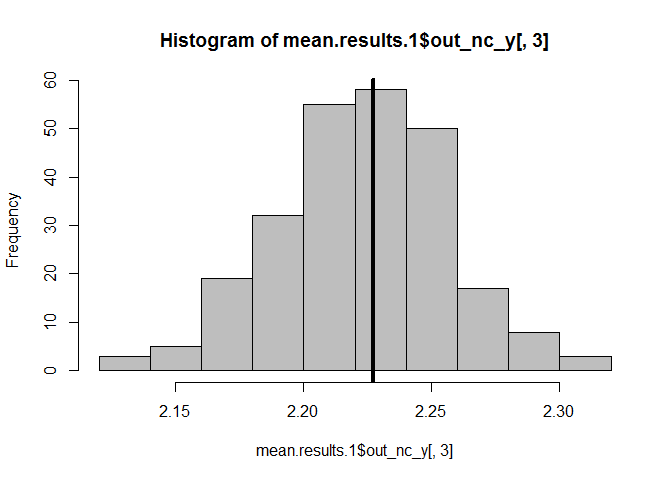
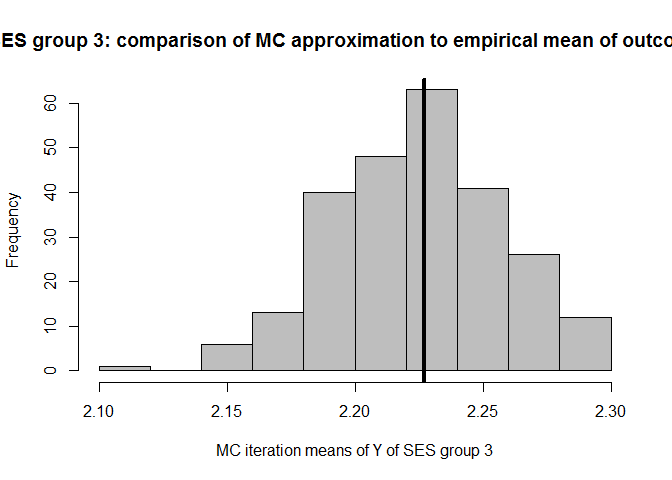
Update figures and description

diff --git a/README.md b/README.md
@@ -20,14 +20,12 @@ Bijlsma Working Paper for more information:
 
 ## Installation
 
-You cannot yet install the released version of cfdecomp from
+You can install the released version of cfdecomp from
 [CRAN](https://CRAN.R-project.org) with:
 
 ``` r
 install.packages("cfdecomp")
 ```
-
-But let's hope that will soon be possible!
 
 ## Example
 
@@ -51,104 +49,124 @@ mean.results.1 <- cfd.mean(formula.y='out.gauss ~ SES + med.gauss + med.binom + 
 
 # see if our modelling procedure approximates the mean of the mediator well
 # for SES group 1
-hist(mean.results.1$out_nc_m[,1],col='grey')
+hist(mean.results.1$out_nc_m[,1],col='grey',xlab='MC iteration means of M of SES group 1',
+     main='SES group 1: comparison of MC approximation to empirical mean of mediator M')
+# place empirical mean of M in the histogram:
 abline(v=mean(cfd.example.data$med.gauss[cfd.example.data$SES==1]),lwd=4)
 ```
 
-<img src="https://github.com/MaartenBijlsma/cfdecomp/blob/master/man/figures/README-example-1.png" width="100%" />
+<img src="figures/README-example-1.png" width="100%" />
 
 ``` r
-mean(mean.results.1$out_nc_m[,1]);mean(cfd.example.data$med.gauss[cfd.example.data$SES==1])
-#> [1] 8.160947
+# approximation of the mean of M over the Monte Carlo iterations for SES group 1:
+mean(mean.results.1$out_nc_m[,1])
+#> [1] 8.164061
+# empirical mean of mediator M for SES group 1:
+mean(cfd.example.data$med.gauss[cfd.example.data$SES==1])
 #> [1] 8.163461
+# conclusion: on average, our distributions of means of M centers on the empirical distribution of M
 
 # for SES group 2
-hist(mean.results.1$out_nc_m[,2],col='grey')
+hist(mean.results.1$out_nc_m[,2],col='grey',xlab='MC iteration means of M of SES group 2',
+     main='SES group 2: Comparison of MC approximation to empirical mean of mediator M')
+# place empirical mean of M in the histogram:
 abline(v=mean(cfd.example.data$med.gauss[cfd.example.data$SES==2]),lwd=4)
 ```
 
-<img src="man/figures/README-example-2.png" width="100%" />
+<img src="figures/README-example-2.png" width="100%" />
 
 ``` r
 mean(mean.results.1$out_nc_m[,2]);mean(cfd.example.data$med.gauss[cfd.example.data$SES==2])
-#> [1] 7.18073
+#> [1] 7.184028
 #> [1] 7.186521
+# conclusion: also for group 2, approximation is good
 
 # for SES group 3
-hist(mean.results.1$out_nc_m[,3],col='grey')
+hist(mean.results.1$out_nc_m[,3],col='grey',xlab='MC iteration means of M of SES group 3',
+     main='SES group 3: Comparison of MC approximation to empirical mean of mediator M')
+# place empirical mean of M in the histogram:
 abline(v=mean(cfd.example.data$med.gauss[cfd.example.data$SES==3]),lwd=4)
 ```
 
-<img src="man/figures/README-example-3.png" width="100%" />
+<img src="figures/README-example-3.png" width="100%" />
 
 ``` r
 mean(mean.results.1$out_nc_m[,3]);mean(cfd.example.data$med.gauss[cfd.example.data$SES==3])
-#> [1] 5.366595
+#> [1] 5.375213
 #> [1] 5.376548
+# conclusion: also for group 3, approximation of M is good
 
-# see if our modelling procedure approximates the mean of the outcome well
+# see if our modelling procedure approximates the mean of outcome Y well
 # for SES group 1
-hist(mean.results.1$out_nc_y[,1],col='grey')
+hist(mean.results.1$out_nc_y[,1],col='grey',xlab='MC iteration means of Y of SES group 1',
+     main='SES group 1: comparison of MC approximation to empirical mean of outcome Y')
+# place empirical mean of outcome Y in the histogram:
 abline(v=mean(cfd.example.data$out.gauss[cfd.example.data$SES==1]),lwd=4)
 ```
 
-<img src="man/figures/README-example-4.png" width="100%" />
+<img src="figures/README-example-4.png" width="100%" />
 
 ``` r
 mean(mean.results.1$out_nc_y[,1]);mean(cfd.example.data$out.gauss[cfd.example.data$SES==1])
-#> [1] 4.145967
+#> [1] 4.147819
 #> [1] 4.145881
+# conclusion: on average, our distributions of means of Y centers on the empirical distribution of Y 
 
 # for SES group 2
-hist(mean.results.1$out_nc_y[,2],col='grey')
+hist(mean.results.1$out_nc_y[,2],col='grey',xlab='MC iteration means of Y of SES group 2',
+     main='SES group 2: comparison of MC approximation to empirical mean of outcome Y')
+# place empirical mean of outcome Y in the histogram:
 abline(v=mean(cfd.example.data$out.gauss[cfd.example.data$SES==2]),lwd=4)
 ```
 
-<img src="man/figures/README-example-5.png" width="100%" />
+<img src="figures/README-example-5.png" width="100%" />
 
 ``` r
 mean(mean.results.1$out_nc_y[,2]);mean(cfd.example.data$out.gauss[cfd.example.data$SES==2])
-#> [1] 3.28383
+#> [1] 3.282378
 #> [1] 3.284409
+# conclusion: also for group 2, approximation of Y is good
 
 # for SES group 3
-hist(mean.results.1$out_nc_y[,3],col='grey')
+hist(mean.results.1$out_nc_y[,3],col='grey',xlab='MC iteration means of Y of SES group 3',
+     main='SES group 3: comparison of MC approximation to empirical mean of outcome Y')
+# place empirical mean of outcome Y in the histogram:
 abline(v=mean(cfd.example.data$out.gauss[cfd.example.data$SES==3]),lwd=4)
 ```
 
-<img src="man/figures/README-example-6.png" width="100%" />
+<img src="figures/README-example-6.png" width="100%" />
 
 ``` r
 mean(mean.results.1$out_nc_y[,3]);mean(cfd.example.data$out.gauss[cfd.example.data$SES==3])
-#> [1] 2.222335
+#> [1] 2.223823
 #> [1] 2.227222
+# conclusion: also for group 3, approximation of Y is good
 
 # looks good!
 
-# estimate the effect of the intervention and % mediation (decomposition)
+# estimate the effect of the intervention and proportion mediated (decomposition)
 # the differences between SES groups 1 and 2 were first:
 mean(mean.results.1$out_nc_y[,2] - mean.results.1$out_nc_y[,1])
-#> [1] -0.8621366
+#> [1] -0.8654418
 # and after giving the gaussian mediator of SES group 2 the distribution of the one in group 1
 # the difference becomes:
 mean(mean.results.1$out_cf_y[,2] - mean.results.1$out_nc_y[,1])
-#> [1] -0.6555679
-# so the % of the outcome Y that is due to differences between the two SES groups in the gaussian mediator is
+#> [1] -0.6583822
+# so the proportion of the outcome Y that is due to differences between the two SES groups in the gaussian mediator is
 mean(1-(mean.results.1$out_cf_y[,2] - mean.results.1$out_nc_y[,1]) / (mean.results.1$out_nc_y[,2] - mean.results.1$out_nc_y[,1]))
-#> [1] 0.2399789
+#> [1] 0.2396509
 # we can also get this number, and the one from the comparison of the other SES group with group 1, straight from the object
 mean.results.1$mediation
 #>         2         3 
-#> 0.2399789 0.3046591
-# and we can get the 1-alpha CI for each:
+#> 0.2396509 0.3048598
 # you'll notice the first number is the same as the one we calculated ourselves from the output
 # this is the proportion mediated when coming the first and the second SES group
 # the second number is the proportion mediated when comparing the first and the third SES group
 # and we can get the 1-alpha confidence intervals for each:
 mean.results.1$mediation_quantile
 #>               2         3
-#> 2.5%  0.1995080 0.2797294
-#> 97.5% 0.2797144 0.3318195
+#> 2.5%  0.2016771 0.2791344
+#> 97.5% 0.2786567 0.3308888
 
 # if a mediator is binomial distributed
 mean.results.2 <- cfd.mean(formula.y='out.gauss ~ med.pois + age + med.binom',
@@ -181,19 +199,19 @@ mean.results.3 <- cfd.mean(formula.y='out.gauss ~ med.pois + age + med.binom',
 plot(conv.mean(mean.results.1$out_nc_m[,1]),type='l')
 ```
 
-<img src="man/figures/README-example-7.png" width="100%" />
+<img src="figures/README-example-7.png" width="100%" />
 
 ``` r
 plot(conv.mean(mean.results.1$out_nc_m[,2]),type='l')
 ```
 
-<img src="man/figures/README-example-8.png" width="100%" />
+<img src="figures/README-example-8.png" width="100%" />
 
 ``` r
 plot(conv.mean(mean.results.1$out_nc_m[,3]),type='l')
 ```
 
-<img src="man/figures/README-example-9.png" width="100%" />
+<img src="figures/README-example-9.png" width="100%" />
 
 ``` r
 
@@ -201,19 +219,19 @@ plot(conv.mean(mean.results.1$out_nc_m[,3]),type='l')
 plot(conv.mean(mean.results.1$out_nc_y[,1]),type='l')
 ```
 
-<img src="man/figures/README-example-10.png" width="100%" />
+<img src="figures/README-example-10.png" width="100%" />
 
 ``` r
 plot(conv.mean(mean.results.1$out_nc_y[,2]),type='l')
 ```
 
-<img src="man/figures/README-example-11.png" width="100%" />
+<img src="figures/README-example-11.png" width="100%" />
 
 ``` r
 plot(conv.mean(mean.results.1$out_nc_y[,3]),type='l')
 ```
 
-<img src="man/figures/README-example-12.png" width="100%" />
+<img src="figures/README-example-12.png" width="100%" />
 
 ``` r
 
@@ -236,19 +254,19 @@ x <- cfd.mean(formula.y='out.gauss ~ med.pois + age + med.binom',
 plot(x$mc_conv_info_m[,1],type='l')
 ```
 
-<img src="man/figures/README-example-13.png" width="100%" />
+<img src="figures/README-example-13.png" width="100%" />
 
 ``` r
 plot(x$mc_conv_info_m[,2],type='l')
 ```
 
-<img src="man/figures/README-example-14.png" width="100%" />
+<img src="figures/README-example-14.png" width="100%" />
 
 ``` r
 plot(x$mc_conv_info_m[,3],type='l')
 ```
 
-<img src="man/figures/README-example-15.png" width="100%" />
+<img src="figures/README-example-15.png" width="100%" />
 
 ``` r
 
@@ -256,19 +274,19 @@ plot(x$mc_conv_info_m[,3],type='l')
 plot(x$mc_conv_info_y[,1],type='l')
 ```
 
-<img src="man/figures/README-example-16.png" width="100%" />
+<img src="figures/README-example-16.png" width="100%" />
 
 ``` r
 plot(x$mc_conv_info_y[,2],type='l')
 ```
 
-<img src="man/figures/README-example-17.png" width="100%" />
+<img src="figures/README-example-17.png" width="100%" />
 
 ``` r
 plot(x$mc_conv_info_y[,3],type='l')
 ```
 
-<img src="man/figures/README-example-18.png" width="100%" />
+<img src="figures/README-example-18.png" width="100%" />
 
 ``` r
 
